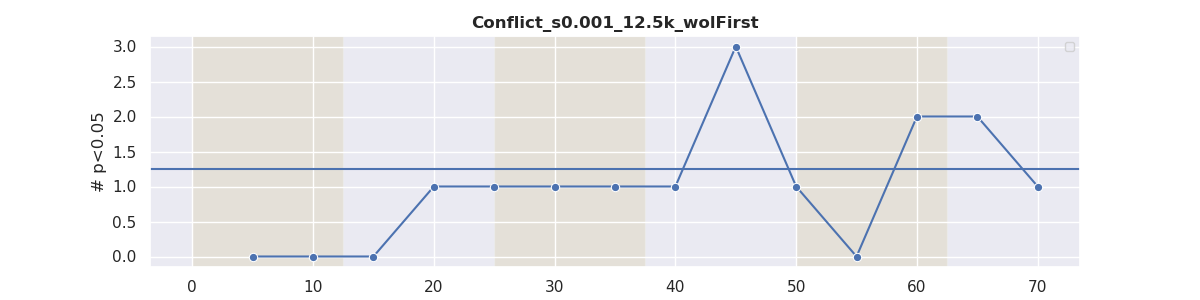
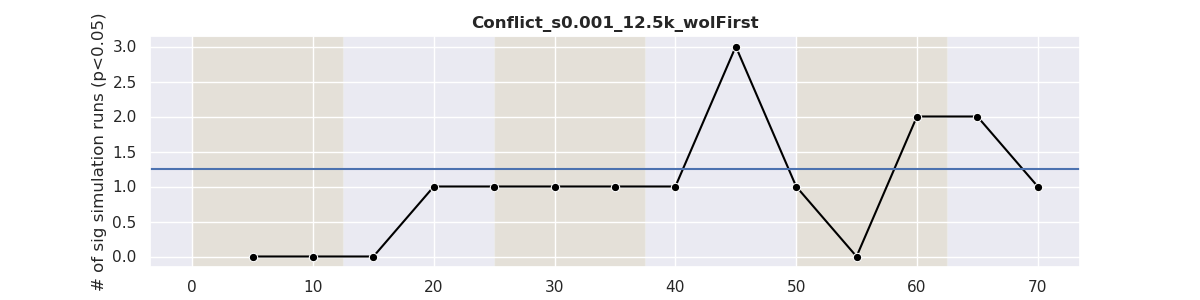
Fixed line graph aesthetics

diff --git a/Sig_across_gen.py b/Sig_across_gen.py
@@ -9,8 +9,12 @@ from matplotlib.offsetbox import AnchoredText
 import sys
 import argparse
 
-
 #python sig_across_gen PATH, FIG_TITLE, WOL_INTERVAL, WOL_FIRST
+
+if __name__ == '__main__':
+    p = argparse.ArgumentParser(description='...')
+    p.add_argument('--argument', required=False)
+
 
 PATH = sys.argv[1]
 FIG_TITLE = sys.argv[2]
@@ -203,10 +207,12 @@ def sig_across_gens_backcol(path_to_MKT_folder, fig_title, wol_interval, wolfirs
     sns.set(rc={'figure.figsize':(12,3)})
 
 #    linegraph = sns.lineplot(x="Gen", y="# p<0.05", hue="DnDs>PnPs", marker="o", data=sig_graph_df3)
-    linegraph = sns.lineplot(x="Gen", y="# p<0.05", marker="o", data=sig_graph_df4)
+    linegraph = sns.lineplot(x="Gen", y="# p<0.05", marker="o", color='black',data=sig_graph_df4)
     linegraph.set_title(fig_title, fontweight='bold')
     linegraph.axhline(1.25)
-    plt.legend(fontsize='x-small', title_fontsize='6')
+    plt.xlabel("Generation at which MKT analysis is done")
+    plt.ylabel("# of sig simulation runs (p<0.05)")
+#    plt.legend(fontsize='x-small', title_fontsize='6')
     
     def drange(start, stop, step):
         r=start
